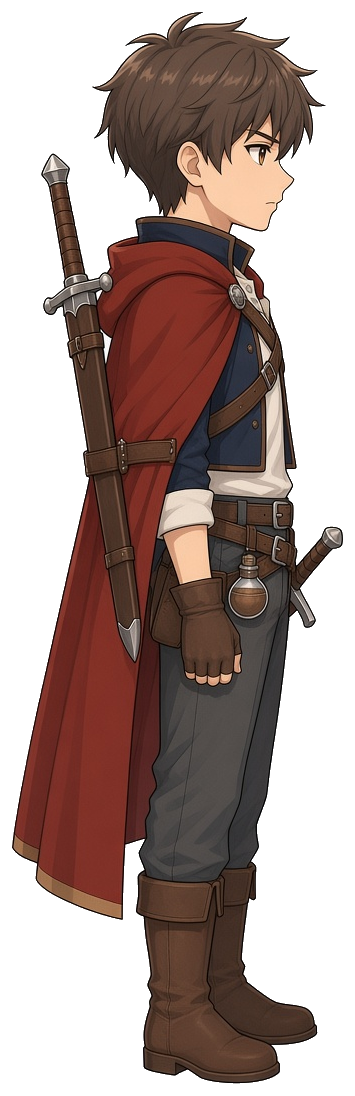
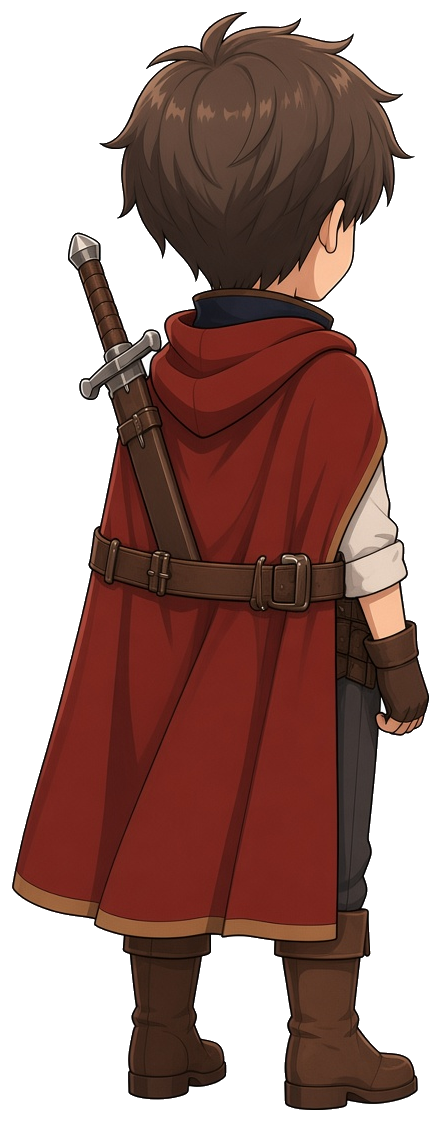
Show the warrior from behind in battle, like a Pokemon fight.

diff --git a/index.html b/index.html
@@ -3150,7 +3150,7 @@
               <p><b>体</b>戦士は、4頭身。頭は全身のおよそ4分の1。描き直しても変えない。魔法使いは、いまの2頭身のまま。</p>
               <p><b>戦士</b>赤いマント、白いシャツ、紺の胴着、腰のベルトは一本。肩当ては無い。大きな剣は、ベルトでマントの上から背中に背負う。小さな剣は腰。盾とリュックは無い。</p>
               <p><b>魔法使い</b>女は白、男は黒。杖は同じで、先が一つの渦巻き。戦士の服は使わない。</p>
-              <p><b>戦闘</b>自分は、この戦士の斜め後ろ。大きな剣は背中に背負ったまま、きりっとした顔で右を向く。敵はその奥。</p>
+              <p><b>戦闘</b>自分は、この戦士の背中。頭は後ろ。横顔は、見えても少しだけ。大きな剣は、ベルトでマントの上から背負う。敵はその奥。</p>
             </div>
             <h3>タイトル</h3>
             <img class="sheet-art" src="title-party.jpg" alt="タイトル。四人がわいわいしている。">
@@ -3326,7 +3326,7 @@
           const img = new Image();
           img.onload = () => { heroImage = img; resolve(img); };
           img.onerror = () => reject(new Error("hero"));
-          img.src = "hero-shoulder.png?v=16";
+          img.src = "hero-shoulder.png?v=17";
         });
       }
       return heroImageTask;
@@ -3345,7 +3345,7 @@
     }
 
     function heroShoulder() {
-      return `<div class="hero-shoulder"><img class="hero-fig" src="hero-shoulder.png?v=16" alt="戦士"></div>`;
+      return `<div class="hero-shoulder"><img class="hero-fig" src="hero-shoulder.png?v=17" alt="戦士"></div>`;
     }
 
     function startHeroIdle() {
